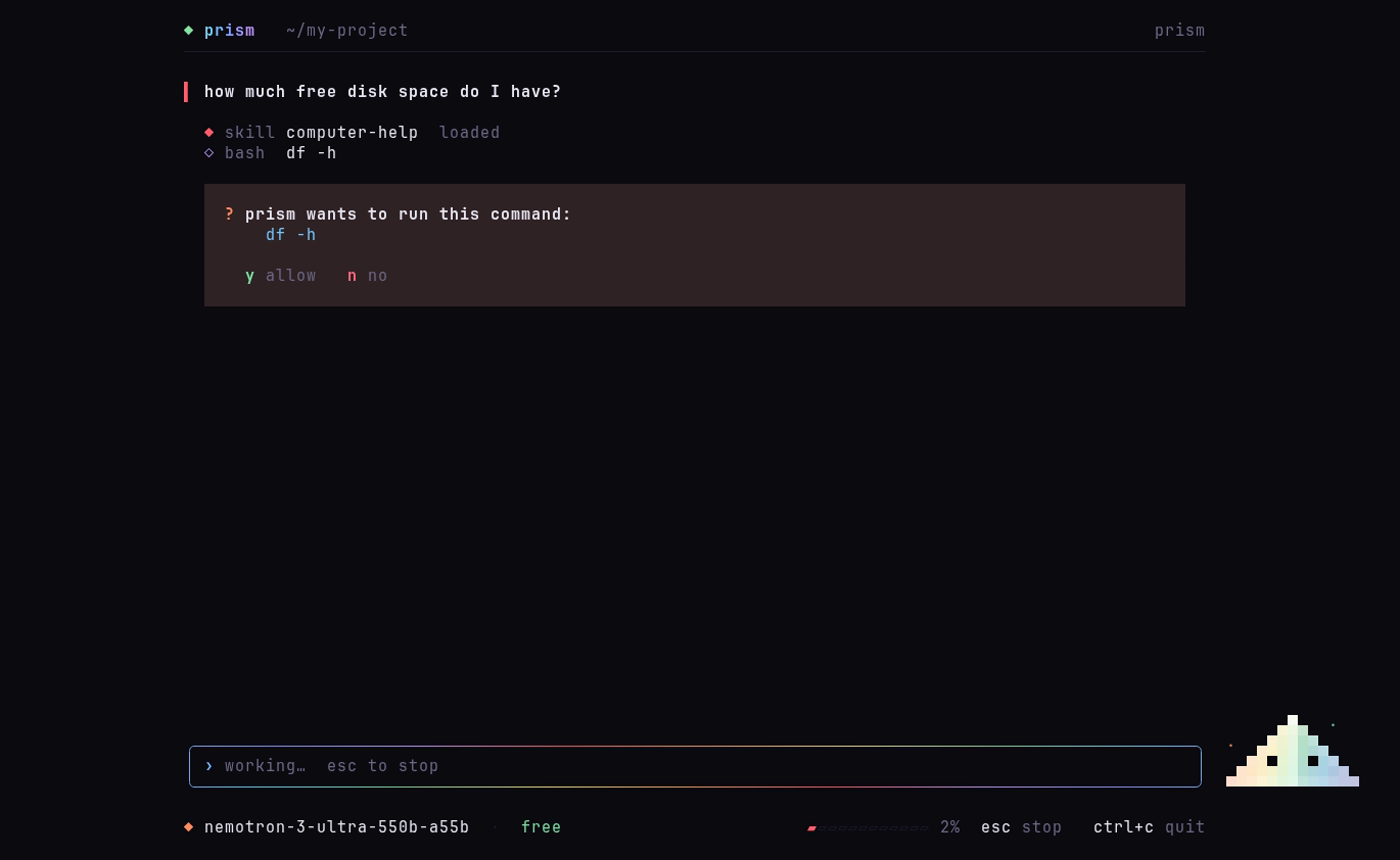
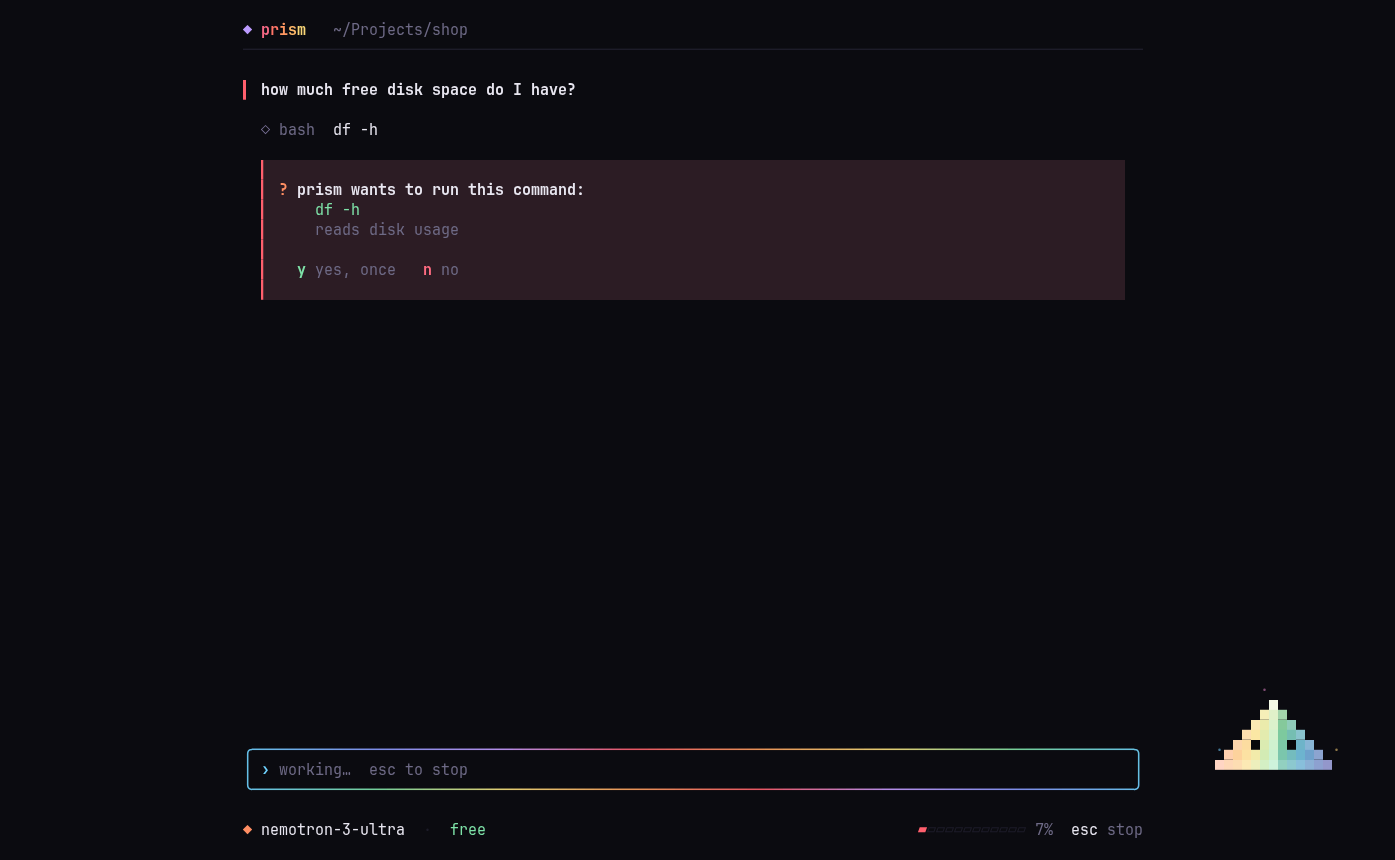
style(cli): place Shard like the web UI, match hello and status
- Shard sits ~9 columns right of the chat on wide screens, feet on the input line
- on narrow screens Shard sits above the input box, hidden when text or a menu is there
- empty-chat hello at the top left, hidden under open overlays
- placeholder says / for commands, status shows models ready
- thinking line uses the web spinner
- refresh docs/fix.png

diff --git a/cli/chat.go b/cli/chat.go
@@ -353,18 +353,18 @@ func (m model) transcript(t theme, width int) []line {
 	}
 	if m.busy && m.thinking {
 		gap()
-		dots := strings.Repeat(".", int(n/300)%4)
-		label, elapsed, hint := "thinking", (m.now - m.thinkSince).Seconds(), ""
+		label, labelCol, elapsed, hint := "thinking", t.fg, (m.now - m.thinkSince).Seconds(), ""
 		switch {
 		case m.reasoning == "" && !m.answering && elapsed > 4:
-			label = "waiting for a free model"
+			label, labelCol = "waiting for a free model", slot(t, 1)
 		case m.reasoning == "" && m.answering && elapsed > 6:
 			label = "writing"
 			if elapsed > 12 {
 				hint = "  ·  big files show up when they're finished"
 			}
 		}
-		out = append(out, line{indent: 2, segs: []seg{{text: label, grad: true, phase: n / 900}, {text: padBytes(dots, 4), fg: t.muted}, {text: fmt.Sprintf("%.0fs", elapsed), fg: t.muted}, {text: hint, fg: t.muted}}})
+		spin := string([]rune("◐◓◑◒")[int(n/160)%4])
+		out = append(out, line{indent: 2, segs: []seg{{text: spin + " ", fg: t.at(n / 3000)}, {text: label, fg: labelCol}, {text: fmt.Sprintf(" %.0fs", elapsed), fg: t.muted}, {text: hint, fg: t.muted}}})
 		if m.reasoning != "" {
 			rows := wrapAll(strings.Join(strings.Fields(m.reasoning), " "), width-8)
 			rows = rows[max(0, len(rows)-3):]
@@ -515,8 +515,8 @@ func drawChat(cv *canvas, t theme, m model) {
 	boxH := m.boxHeight()
 	boxY := cv.h - 3 - boxH
 	lines, start, end, top, height := m.visible(t)
-	if len(lines) == 0 {
-		hello := []string{"what are we building today?", "", "try:  fix a bug  ·  make a website  ·  /help"}
+	if len(lines) == 0 && !m.menu.open && !m.fb.open && len(m.suggesting().rows) == 0 {
+		hello := []string{"what are we building today?", "try: fix a bug · make a website · /help"}
 		if m.offline || m.ready == 0 {
 			hello = append(hello, "", "the free AI router isn't ready · run: prism status")
 		}
@@ -528,7 +528,7 @@ func drawChat(cv *canvas, t theme, m model) {
 			if i == len(hello)-1 && (m.offline || m.ready == 0) {
 				col = t.red
 			}
-			cv.text((cv.w-len([]rune(s)))/2, top+height/2-2+i, s, mix(t.bg, col, enter), i == 0)
+			cv.text(cx, top+min(3, max(0, height-len(hello)-1))+i, s, mix(t.bg, col, enter), i == 0)
 		}
 	}
 	for i, l := range lines[start:end] {
@@ -622,7 +622,7 @@ func drawInput(cv *canvas, t theme, m model, x, y, w, h int, n, enter float64) {
 		return
 	}
 	if len(m.input) == 0 {
-		hint, col := "ask anything…", mix(t.bg, t.muted, enter)
+		hint, col := "ask anything…  / for commands", mix(t.bg, t.muted, enter)
 		if m.agent != nil && m.agent.plan.Load() {
 			hint = "plan mode · ask for a plan…"
 		}
@@ -690,6 +690,9 @@ func drawStatus(cv *canvas, t theme, m model, x, y, w int, enter float64) {
 	used := float64(m.tokens) / float64(max(1, m.window))
 	meterW := 12
 	pct := fmt.Sprintf("%d%%", int(math.Round(used*100)))
+	if m.ready > 0 && !m.busy {
+		pct += fmt.Sprintf("   %d model%s ready", m.ready, map[bool]string{true: "", false: "s"}[m.ready == 1])
+	}
 	meterShown := true
 
 	key := func(k, what string) []seg { return []seg{{text: k, fg: t.fg}, {text: " " + what + "   ", fg: t.muted}} }

diff --git a/cli/buddy.go b/cli/buddy.go
@@ -97,19 +97,51 @@ func (m *model) finish(ok bool, busy bool) {
 
 func (m model) buddyWide(w int) bool { return (w-m.column())/2 >= 17 }
 
+// shardSize is Shard's size in cells: two pixel rows per cell.
+func shardSize() (w, h int) { return len(shardBody[0]), (len(shardBody) + 1) / 2 }
+
+// buddyGap is the room between the chat column and Shard beside it. The
+// browser keeps about 9 columns; a tight terminal gives up to 2.
+func buddyGap(w, colW int) int {
+	sw, _ := shardSize()
+	return clamp((w-colW)/2-sw-6, 2, 9)
+}
+
+// buddySpot is where Shard sits, the same place as in the browser: in the
+// right margin with its feet on the input line, or on a narrow screen just
+// above the input box's right end. ok is false when Shard would cover chat
+// text or an open overlay there.
+func (m model) buddySpot(cv *canvas, t theme, cx, colW, boxY int) (x, y int, ok bool) {
+	sw, sh := shardSize()
+	if m.buddyWide(cv.w) {
+		return cx + colW + buddyGap(cv.w, colW), cv.h - 4 - sh, true
+	}
+	if m.menu.open || m.fb.open || len(m.suggesting().rows) > 0 {
+		return 0, 0, false
+	}
+	x, y = cx+colW-1-sw, boxY-sh
+	for row := y - 3; row < y+sh; row++ {
+		for col := x; col < cx+colW; col++ {
+			if c := cv.get(col, row); c == nil || c.ch != ' ' || c.bg != t.bg {
+				return 0, 0, false
+			}
+		}
+	}
+	return x, y, true
+}
+
 func drawBuddy(cv *canvas, t theme, m model, cx, colW, boxY int) {
 	n := ms(m.now)
-	wide := m.buddyWide(cv.w)
-	sx, sy := cx+colW+2, boxY-1
+	sx, sy, shown := m.buddySpot(cv, t, cx, colW, boxY)
 	bx, by := cx+colW-1, boxY+1
-	if wide {
+	if shown {
 		bx, by = sx-1, sy+2
 	}
 	beaming := m.beamOn && m.beamAt > 0 && m.now-m.beamAt < beamFor
 	if beaming {
 		drawBeam(cv, t, bx, by, -1, ms(m.now-m.beamAt))
 	}
-	if wide {
+	if shown {
 		pose := m.pose()
 		if beaming {
 			pose.md = moodWorking
